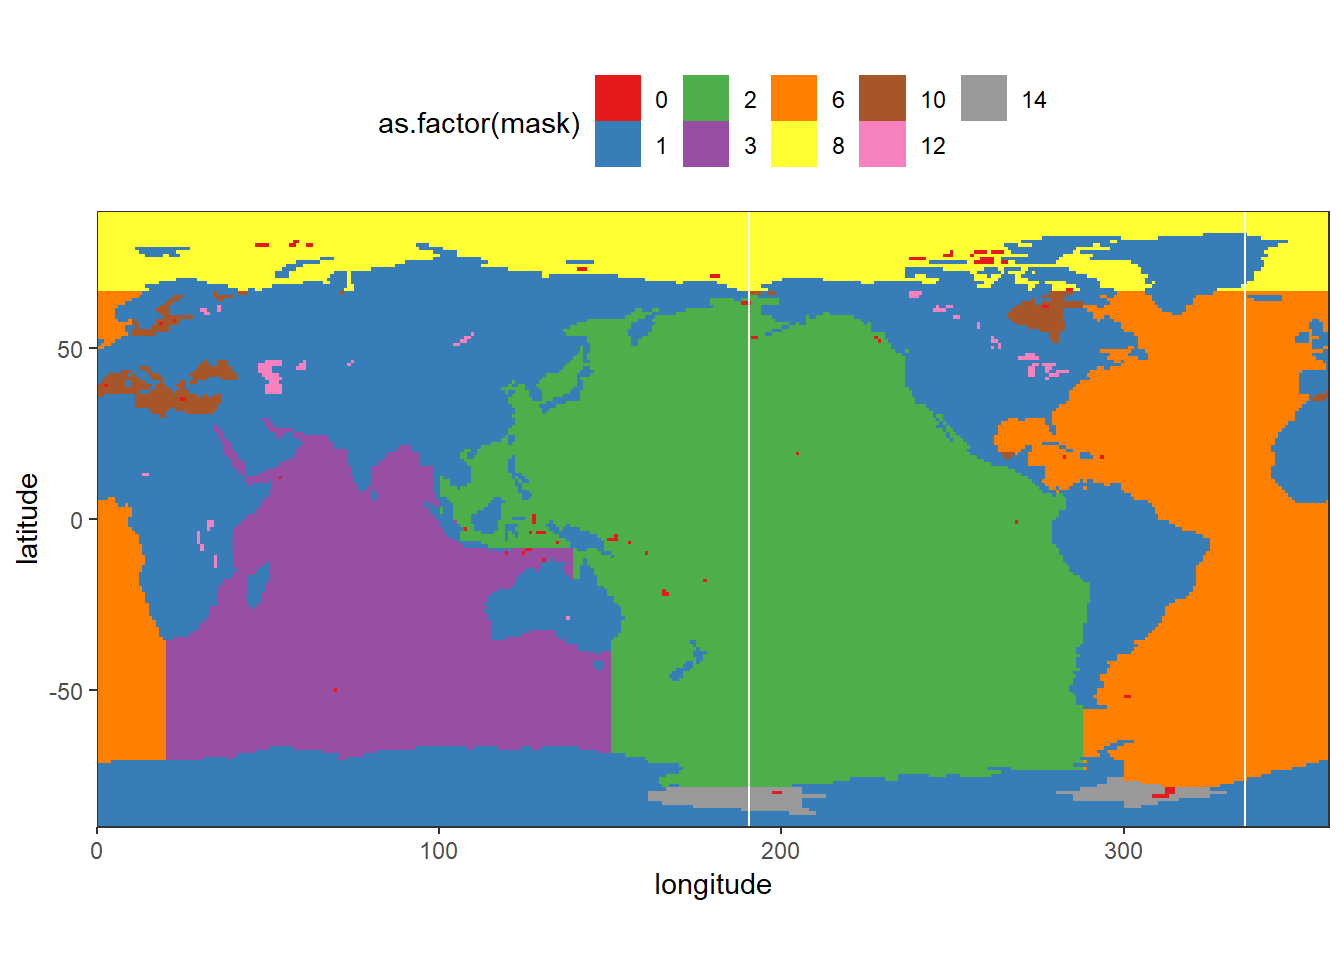
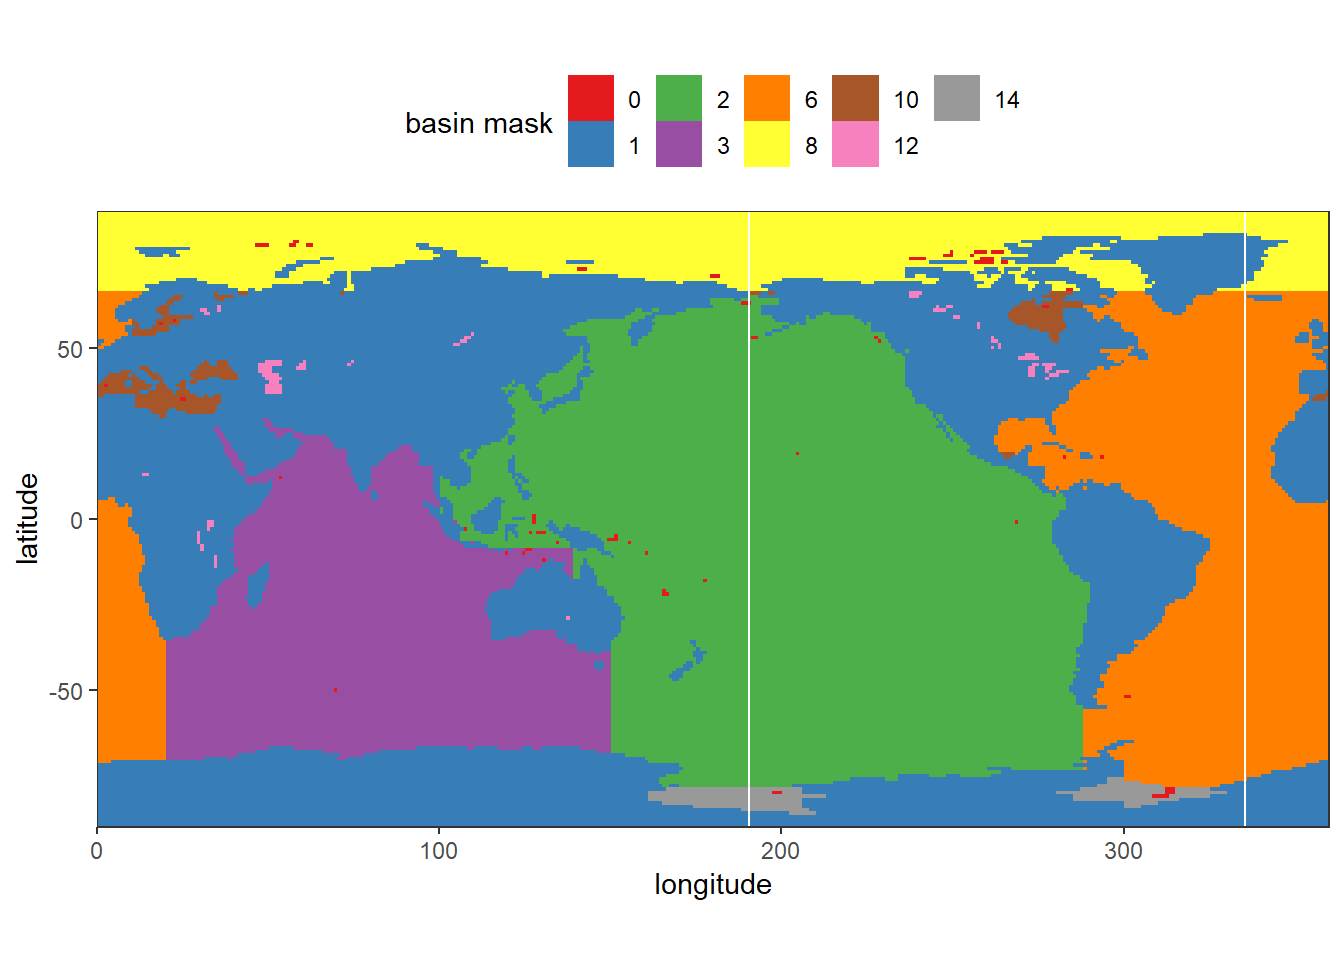
Build site.

Changed region(s): [[0.2812, 0.0625, 0.7812, 0.1875]]

diff --git a/docs/read_World_Ocean_Atlas_2018.html b/docs/read_World_Ocean_Atlas_2018.html
@@ -549,16 +549,16 @@ This reproducible <a href="http://rmarkdown.rstudio.com">R Markdown</a> analysis
 <div class="panel panel-default">
 <div class="panel-heading">
 <p class="panel-title">
-<a data-toggle="collapse" data-parent="#workflowr-checks" href="#strongRepositoryversionstrongahrefhttpsgithubcomjensdanielmuellerCanteMLRtreeb2b1f2454fd4366f62265441522741b8410ba54ftargetblankb2b1f24a"> <span class="glyphicon glyphicon-ok text-success" aria-hidden="true"></span> <strong>Repository version:</strong> <a href="https://github.com/jens-daniel-mueller/Cant_eMLR/tree/b2b1f2454fd4366f62265441522741b8410ba54f" target="_blank">b2b1f24</a> </a>
+<a data-toggle="collapse" data-parent="#workflowr-checks" href="#strongRepositoryversionstrongahrefhttpsgithubcomjensdanielmuellerCanteMLRtreeeb838d430b10302f27542e8fc1fecf430fd45ee3targetblankeb838d4a"> <span class="glyphicon glyphicon-ok text-success" aria-hidden="true"></span> <strong>Repository version:</strong> <a href="https://github.com/jens-daniel-mueller/Cant_eMLR/tree/eb838d430b10302f27542e8fc1fecf430fd45ee3" target="_blank">eb838d4</a> </a>
 </p>
 </div>
[2 lines of base64/hex data omitted]
 <div class="panel-body">
 <p>
 Great! You are using Git for version control. Tracking code development and connecting the code version to the results is critical for reproducibility.
 </p>
 <p>
-The results in this page were generated with repository version <a href="https://github.com/jens-daniel-mueller/Cant_eMLR/tree/b2b1f2454fd4366f62265441522741b8410ba54f" target="_blank">b2b1f24</a>. See the <em>Past versions</em> tab to see a history of the changes made to the R Markdown and HTML files.
+The results in this page were generated with repository version <a href="https://github.com/jens-daniel-mueller/Cant_eMLR/tree/eb838d430b10302f27542e8fc1fecf430fd45ee3" target="_blank">eb838d4</a>. See the <em>Past versions</em> tab to see a history of the changes made to the R Markdown and HTML files.
 </p>
 <p>
 Note that you need to be careful to ensure that all relevant files for the analysis have been committed to Git prior to generating the results (you can use <code>wflow_publish</code> or <code>wflow_git_commit</code>). workflowr only checks the R Markdown file, but you know if there are other scripts or data files that it depends on. Below is the status of the Git repository when the results were generated:
@@ -615,6 +615,40 @@ Message
 </tr>
 </thead>
 <tbody>
+<tr>
+<td>
+Rmd
+</td>
+<td>
+<a href="https://github.com/jens-daniel-mueller/Cant_eMLR/blob/eb838d430b10302f27542e8fc1fecf430fd45ee3/analysis/read_World_Ocean_Atlas_2018.Rmd" target="_blank">eb838d4</a>
+</td>
+<td>
+jens-daniel-mueller
+</td>
+<td>
+2020-08-04
+</td>
+<td>
+Read, plot, write data from D Clement
+</td>
+</tr>
+<tr>
+<td>
+html
+</td>
+<td>
+<a href="https://rawcdn.githack.com/jens-daniel-mueller/Cant_eMLR/662560f0e86374ea73e7b3c4eba3e0ea12bd5b4a/docs/read_World_Ocean_Atlas_2018.html" target="_blank">662560f</a>
+</td>
+<td>
+jens-daniel-mueller
+</td>
+<td>
+2020-08-04
+</td>
+<td>
+Build site.
+</td>
+</tr>
 <tr>
 <td>
 Rmd
@@ -1429,8 +1463,8 @@ WOA18_predictors %&gt;%
 rm(WOA18_predictors, WOA_sal, WOA_sal_tibble, WOA_tem, WOA_tem_tibble)</code></pre>
 </div>
 </div>
-<div id="woa13-data-from-dominic-clement" class="section level1">
-<h1><span class="header-section-number">4</span> WOA13 data from Dominic Clement</h1>
+<div id="woa13-from-d.-clement" class="section level1">
+<h1><span class="header-section-number">4</span> WOA13 from D. Clement</h1>
 <p>Dominic Clement provided a netcdf file with the basin mask and neutral densities used in Clement and Gruber (2018), both derived from the World Ocean Atlas 2013.</p>
 <div id="read-ncdfs-1" class="section level2">
 <h2><span class="header-section-number">4.1</span> Read ncdfs</h2>
@@ -1442,37 +1476,40 @@ nd_mask_tibble &lt;- nd_mask %&gt;% hyper_tibble()
 
 nd_mask_tibble &lt;- nd_mask_tibble %&gt;% 
   mutate(gamma = if_else(gamma == -999, NaN, gamma))</code></pre>
+</div>
+<div id="plots" class="section level2">
+<h2><span class="header-section-number">4.2</span> Plots</h2>
 <pre class="r"><code>depth_surface_selection &lt;- c(0)
 Atl_lon &lt;- 335.5
 Pac_lon &lt;- 190.5</code></pre>
-<p>Below, following subsets of the climatologies are plotted for all relevant parameters:</p>
+<p>Below, following subsets of the climatologies are plotted:</p>
 <ul>
-<li>Horizontal planes at 0m</li>
-<li>Meridional sections at longitudes:
+<li>Basin mask at 0m</li>
+<li>Meridional sections of neutral density at longitudes:
 <ul>
 <li>Atlantic: 335.5</li>
 <li>Pacific: 190.5</li>
 </ul></li>
 </ul>
-<p>Section locations are indicated as white lines in maps.</p>
-<p>Please note that longitudes in the climatologies range from -179.5 - 179.5, which is different from GLODAP mapped climatologies.</p>
+<p>Section locations are indicated as white lines in the basin map.</p>
 </div>
 <div id="basin-map" class="section level2">
-<h2><span class="header-section-number">4.2</span> Basin map</h2>
+<h2><span class="header-section-number">4.3</span> Basin map</h2>
 <pre class="r"><code>nd_mask_tibble %&gt;% 
   filter(depth == 0) %&gt;% 
   ggplot(aes(longitude, latitude, fill = as.factor(mask))) +
   geom_raster() +
   geom_vline(xintercept = c(Atl_lon, Pac_lon), col = &quot;white&quot;) +
   coord_quickmap(expand = 0) +
-  scale_fill_brewer(palette = &quot;Set1&quot;) +
+  scale_fill_brewer(palette = &quot;Set1&quot;,
+                    name = &quot;basin mask&quot;) +
   theme(legend.position = &quot;top&quot;)</code></pre>
 <p><img src="figure/read_World_Ocean_Atlas_2018.Rmd/basin_map_WOA13_dclement-1.png" width="672" style="display: block; margin: auto;" /></p>
 </div>
 <div id="neutral-density-sections" class="section level2">
-<h2><span class="header-section-number">4.3</span> Neutral density sections</h2>
+<h2><span class="header-section-number">4.4</span> Neutral density sections</h2>
 <div id="atlantic" class="section level3">
-<h3><span class="header-section-number">4.3.1</span> Atlantic</h3>
+<h3><span class="header-section-number">4.4.1</span> Atlantic</h3>
 <pre class="r"><code>nd_mask_tibble %&gt;% 
   filter(longitude == Atl_lon) %&gt;% 
   ggplot(aes(latitude, depth, z = gamma)) +
@@ -1483,7 +1520,7 @@ Pac_lon &lt;- 190.5</code></pre>
 <p><img src="figure/read_World_Ocean_Atlas_2018.Rmd/gamma_section_WOA13_dclement_Atl-1.png" width="672" style="display: block; margin: auto;" /></p>
 </div>
 <div id="pacific" class="section level3">
-<h3><span class="header-section-number">4.3.2</span> Pacific</h3>
+<h3><span class="header-section-number">4.4.2</span> Pacific</h3>
 <pre class="r"><code>nd_mask_tibble %&gt;% 
   filter(longitude == Pac_lon) %&gt;% 
   ggplot(aes(latitude, depth, z = gamma)) +
@@ -1495,7 +1532,7 @@ Pac_lon &lt;- 190.5</code></pre>
 </div>
 </div>
 <div id="write-file-2" class="section level2">
-<h2><span class="header-section-number">4.4</span> Write file</h2>
+<h2><span class="header-section-number">4.5</span> Write file</h2>
 <pre class="r"><code>nd_mask_tibble %&gt;%
   write_csv(here::here(&quot;data/World_Ocean_Atlas_2018/_summarized_files&quot;,
                        &quot;WOA13_mask_gamma.csv&quot;))
